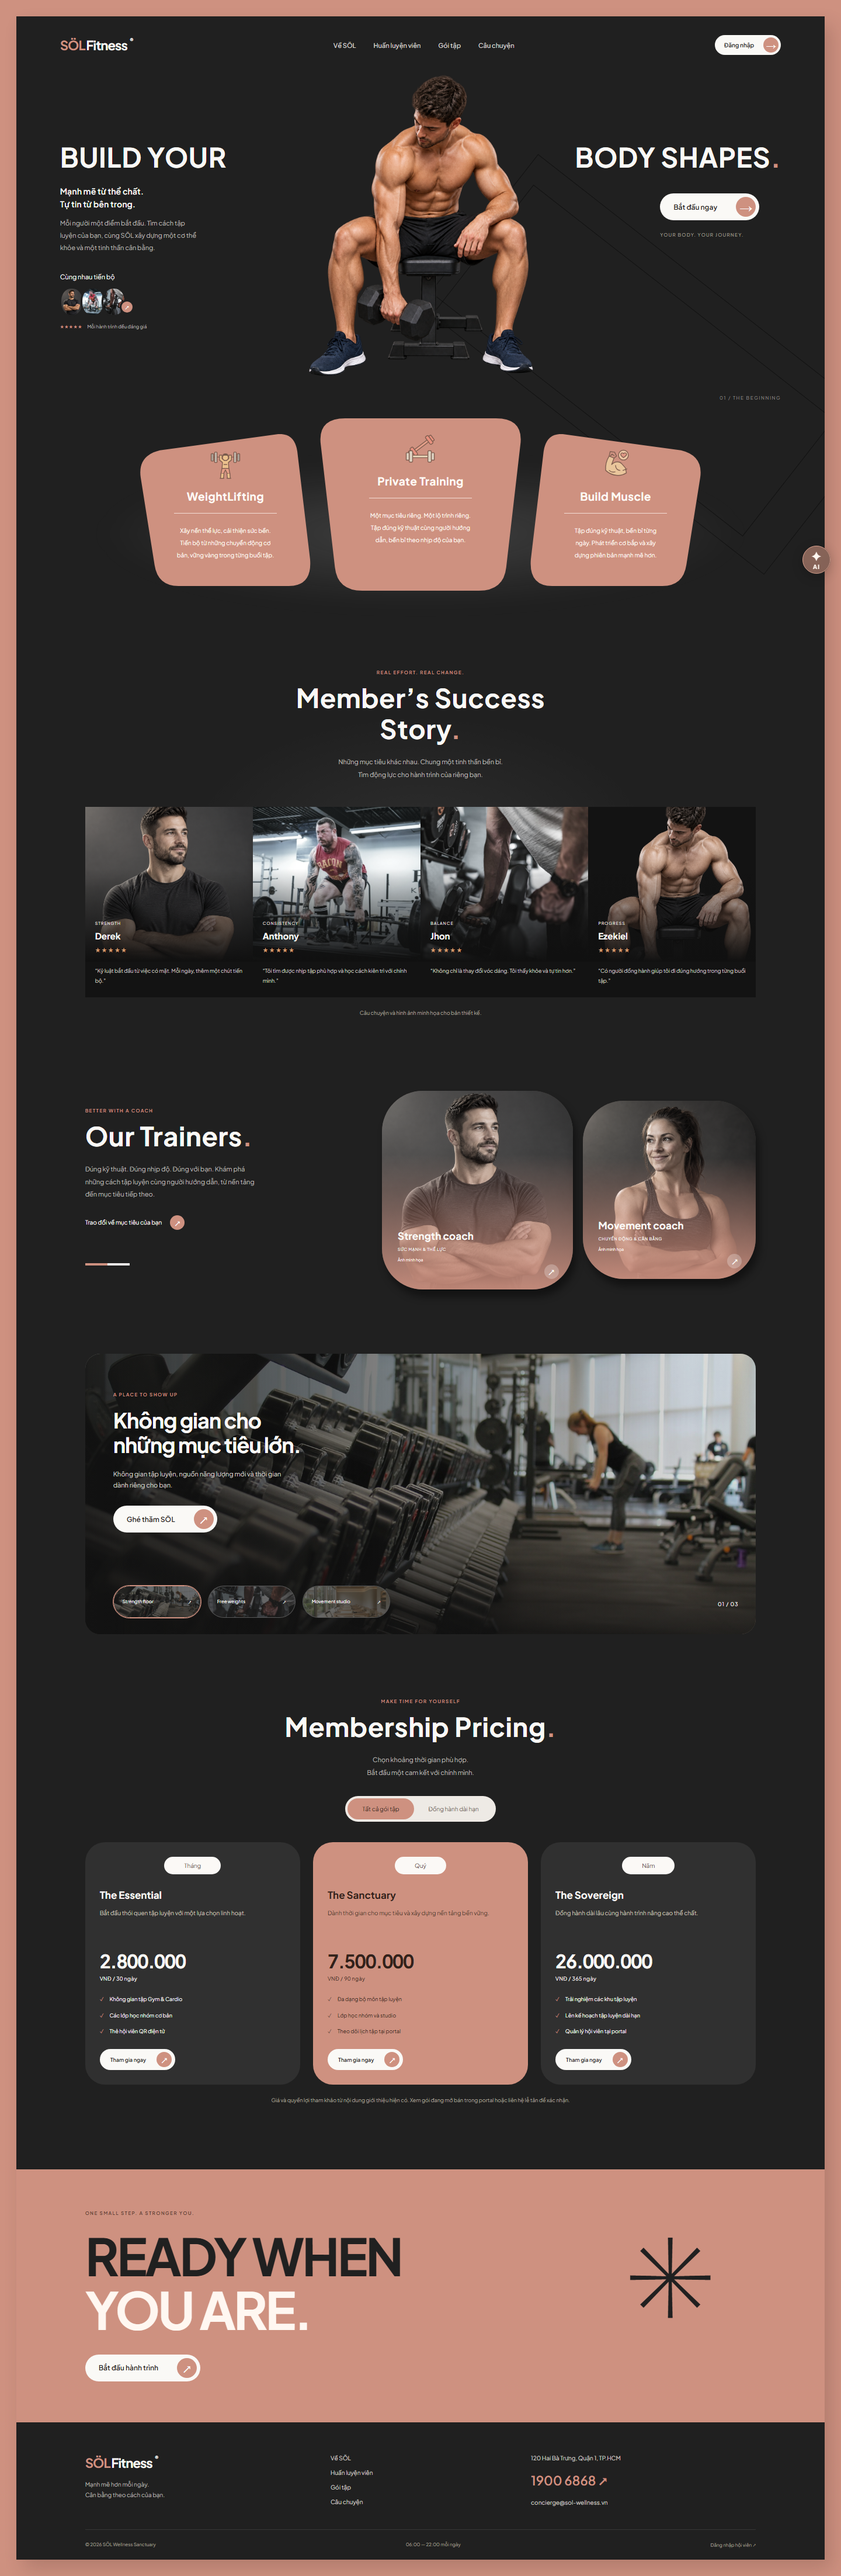
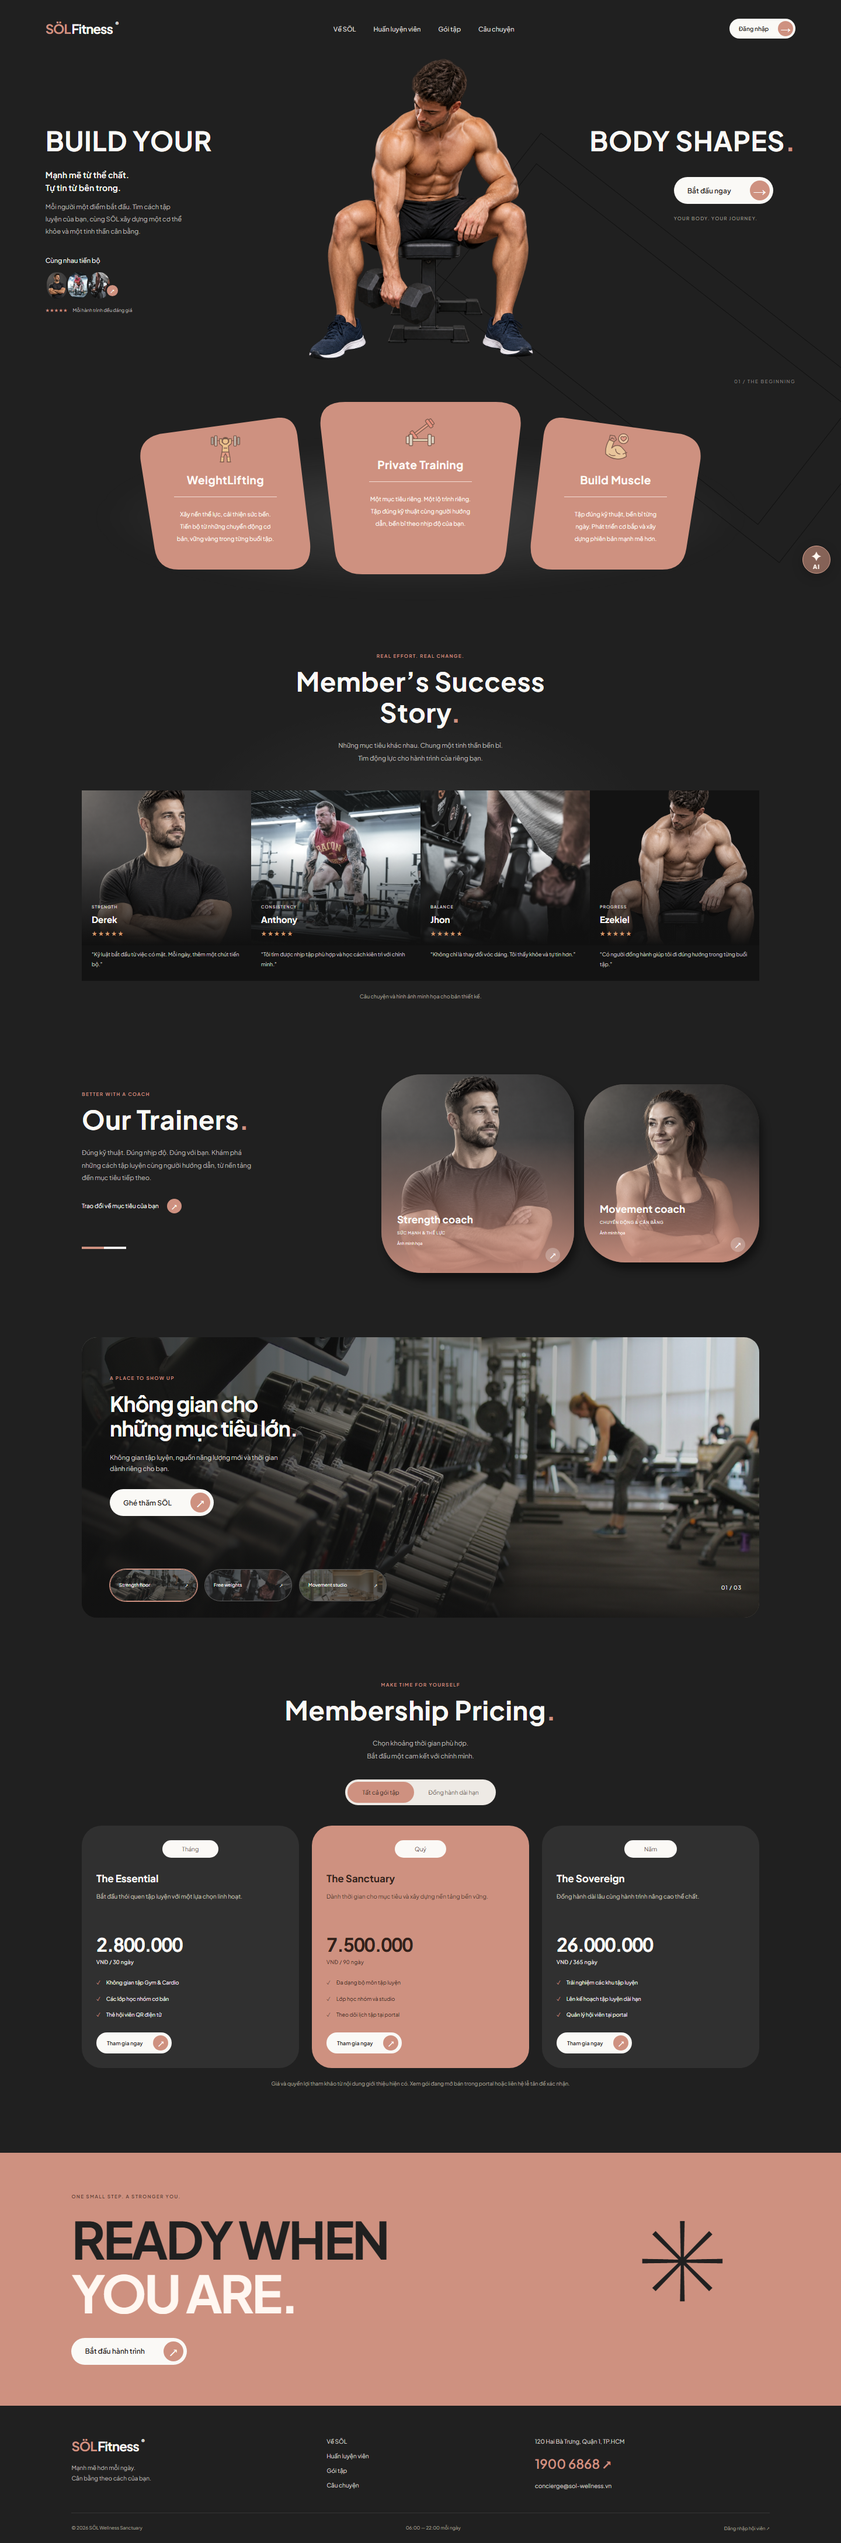
fix(web): fill public viewport and theme scrollbars

diff --git a/apps/web/src/features/landing/fitness-public.css b/apps/web/src/features/landing/fitness-public.css
@@ -1,4 +1,16 @@
 /* Public pages only. Portal keeps its existing design tokens and components. */
+html:has(.fit-site) {
+  background: #202020;
+  color-scheme: dark;
+  scrollbar-width: thin;
+  scrollbar-color: #ce9180 #202020;
+  scroll-behavior: smooth;
+}
+body:has(.fit-site) { background: #202020; }
+html:has(.fit-site)::-webkit-scrollbar, .fit-site ::-webkit-scrollbar { width: 10px; height: 10px; }
+html:has(.fit-site)::-webkit-scrollbar-track, .fit-site ::-webkit-scrollbar-track { background: #202020; }
+html:has(.fit-site)::-webkit-scrollbar-thumb, .fit-site ::-webkit-scrollbar-thumb { background: #ce9180; border: 2px solid #202020; border-radius: 10px; }
+html:has(.fit-site)::-webkit-scrollbar-thumb:hover, .fit-site ::-webkit-scrollbar-thumb:hover { background: #e1aa98; }
 .fit-site {
   --fit-salmon: #ce9180;
   --fit-ink: #202020;
@@ -14,13 +26,15 @@
   --color-bg-warm: #2b2b2b;
   --color-bg-card: #292929;
   color: var(--fit-paper);
-  background: var(--fit-salmon);
+  background: var(--fit-ink);
   font-family: var(--fit-font);
-  padding: 28px;
+  width: 100%;
+  padding: 0;
   min-height: 100dvh;
   -webkit-font-smoothing: antialiased;
 }
 .fit-site * { box-sizing: border-box; }
+.fit-site, .fit-site * { scrollbar-width: thin; scrollbar-color: var(--fit-salmon) var(--fit-ink); }
 .fit-site ::selection { color: var(--fit-ink); background: var(--fit-salmon); }
 .fit-site :is(h1,h2,h3,p) { margin: 0; }
 .fit-site :is(a,button,input) { -webkit-tap-highlight-color: transparent; }
@@ -29,7 +43,7 @@
 .fit-site button:disabled { cursor: not-allowed; opacity: .55; }
 .fit-site :focus-visible { outline: 2px solid var(--fit-salmon); outline-offset: 5px; }
 .fit-site section, .fit-footer { scroll-margin-top: 24px; }
-.fit-canvas { max-width: 1500px; margin: auto; background: var(--fit-ink); overflow: clip; box-shadow: 12px 16px 30px #38251f30; }
+.fit-canvas { width: 100%; min-height: 100dvh; background: var(--fit-ink); overflow: clip; }
 .fit-header { display: flex; align-items: center; justify-content: space-between; gap: 28px; padding: 32px 5.4%; position: relative; z-index: 5; }
 .fit-brand { display: inline-flex; align-items: baseline; font-size: 22px; font-weight: 700; letter-spacing: -.9px; white-space: nowrap; }
 .fit-brand > span:first-child { color: var(--fit-salmon); margin-right: 2px; }
@@ -212,7 +226,6 @@
 
 @media (min-width: 1600px) { .fit-hero-title { font-size: 48px; } }
 @media (max-width: 1100px) {
-  .fit-site { padding: 20px; }
   .fit-nav { gap: 20px; }
   .fit-hero { min-height: 530px; }
   .fit-hero-title { padding-top: 100px; font-size: 3.15vw; }
@@ -236,7 +249,6 @@
   .fit-auth .luxury-login-container, .fit-auth-card { padding: 28px 24px !important; }
 }
 @media (max-width: 760px) {
-  .fit-site { padding: 12px; }
   .fit-header { padding: 23px 6%; gap: 12px; }
   .fit-brand { font-size: 20px; }
   .fit-header-actions { gap: 10px; }
@@ -311,4 +323,7 @@
   .fit-auth-photo, .fit-auth-note { display: none; }
   .fit-auth .luxury-login-container, .fit-auth-card { padding: 28px 22px !important; border-radius: 24px !important; }
 }
-@media (prefers-reduced-motion: reduce) { .fit-site *, .fit-site *::after { animation: none !important; transition: none !important; scroll-behavior: auto !important; } }
+@media (prefers-reduced-motion: reduce) {
+  html:has(.fit-site) { scroll-behavior: auto; }
+  .fit-site *, .fit-site *::after { animation: none !important; transition: none !important; scroll-behavior: auto !important; }
+}
